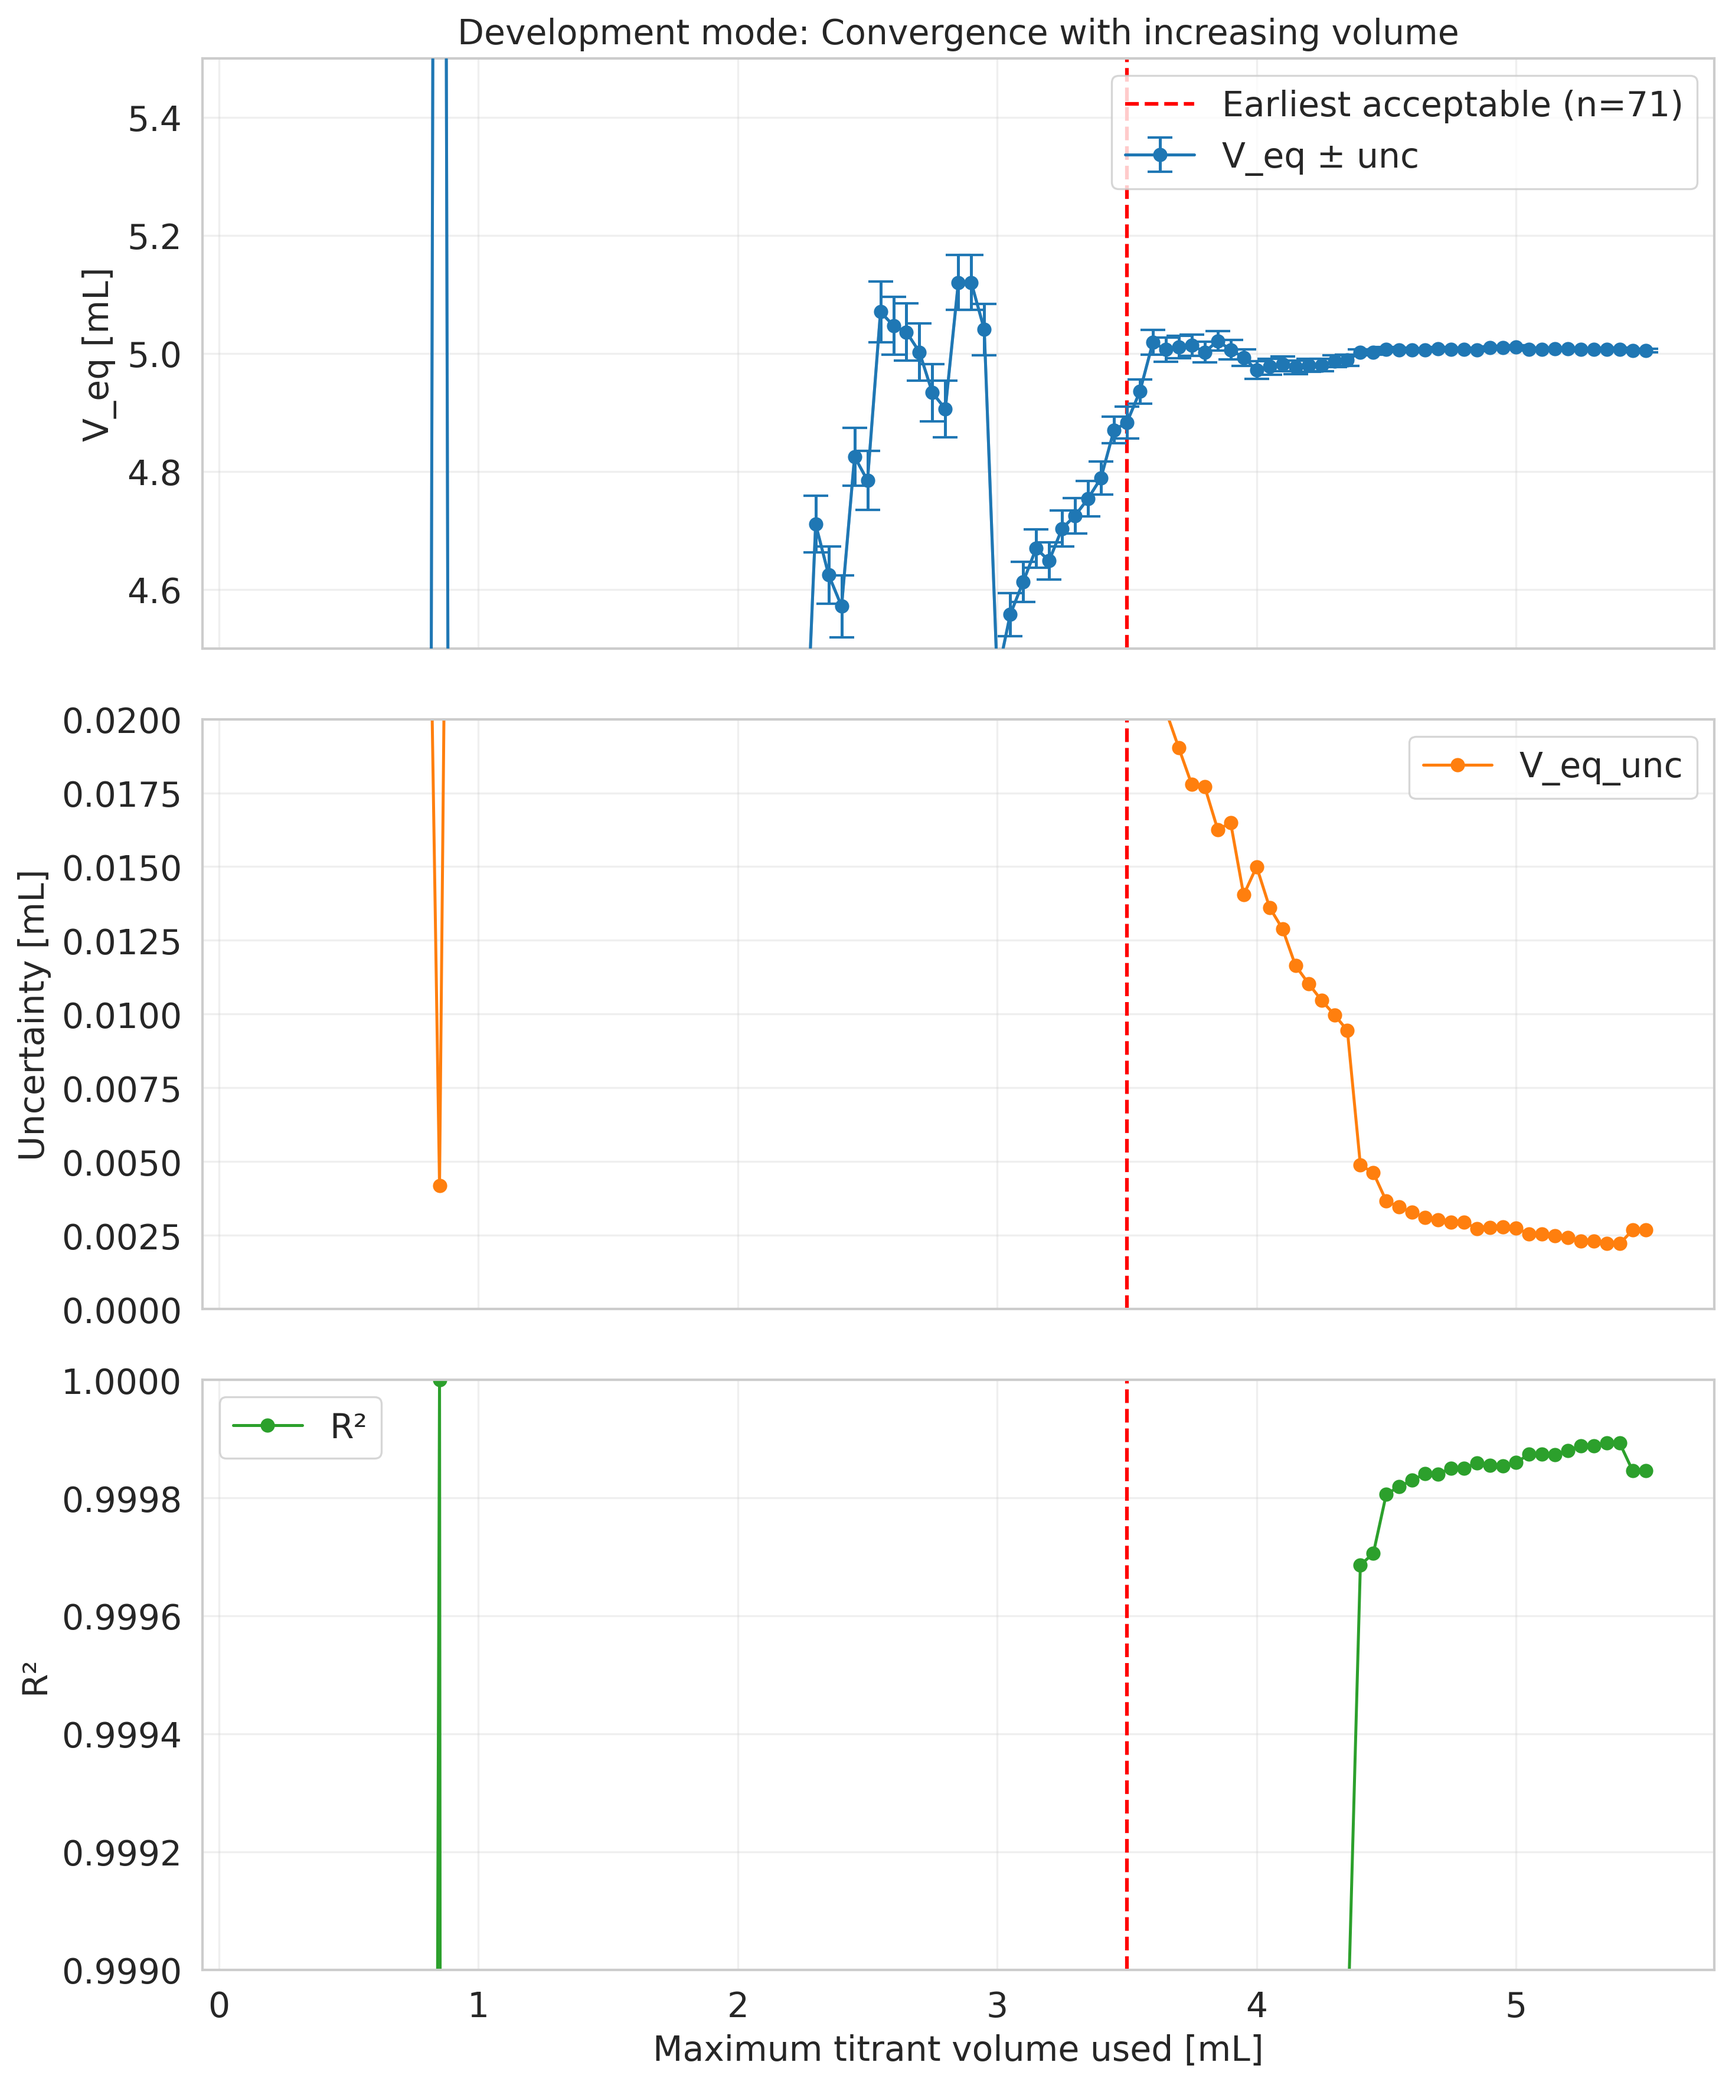
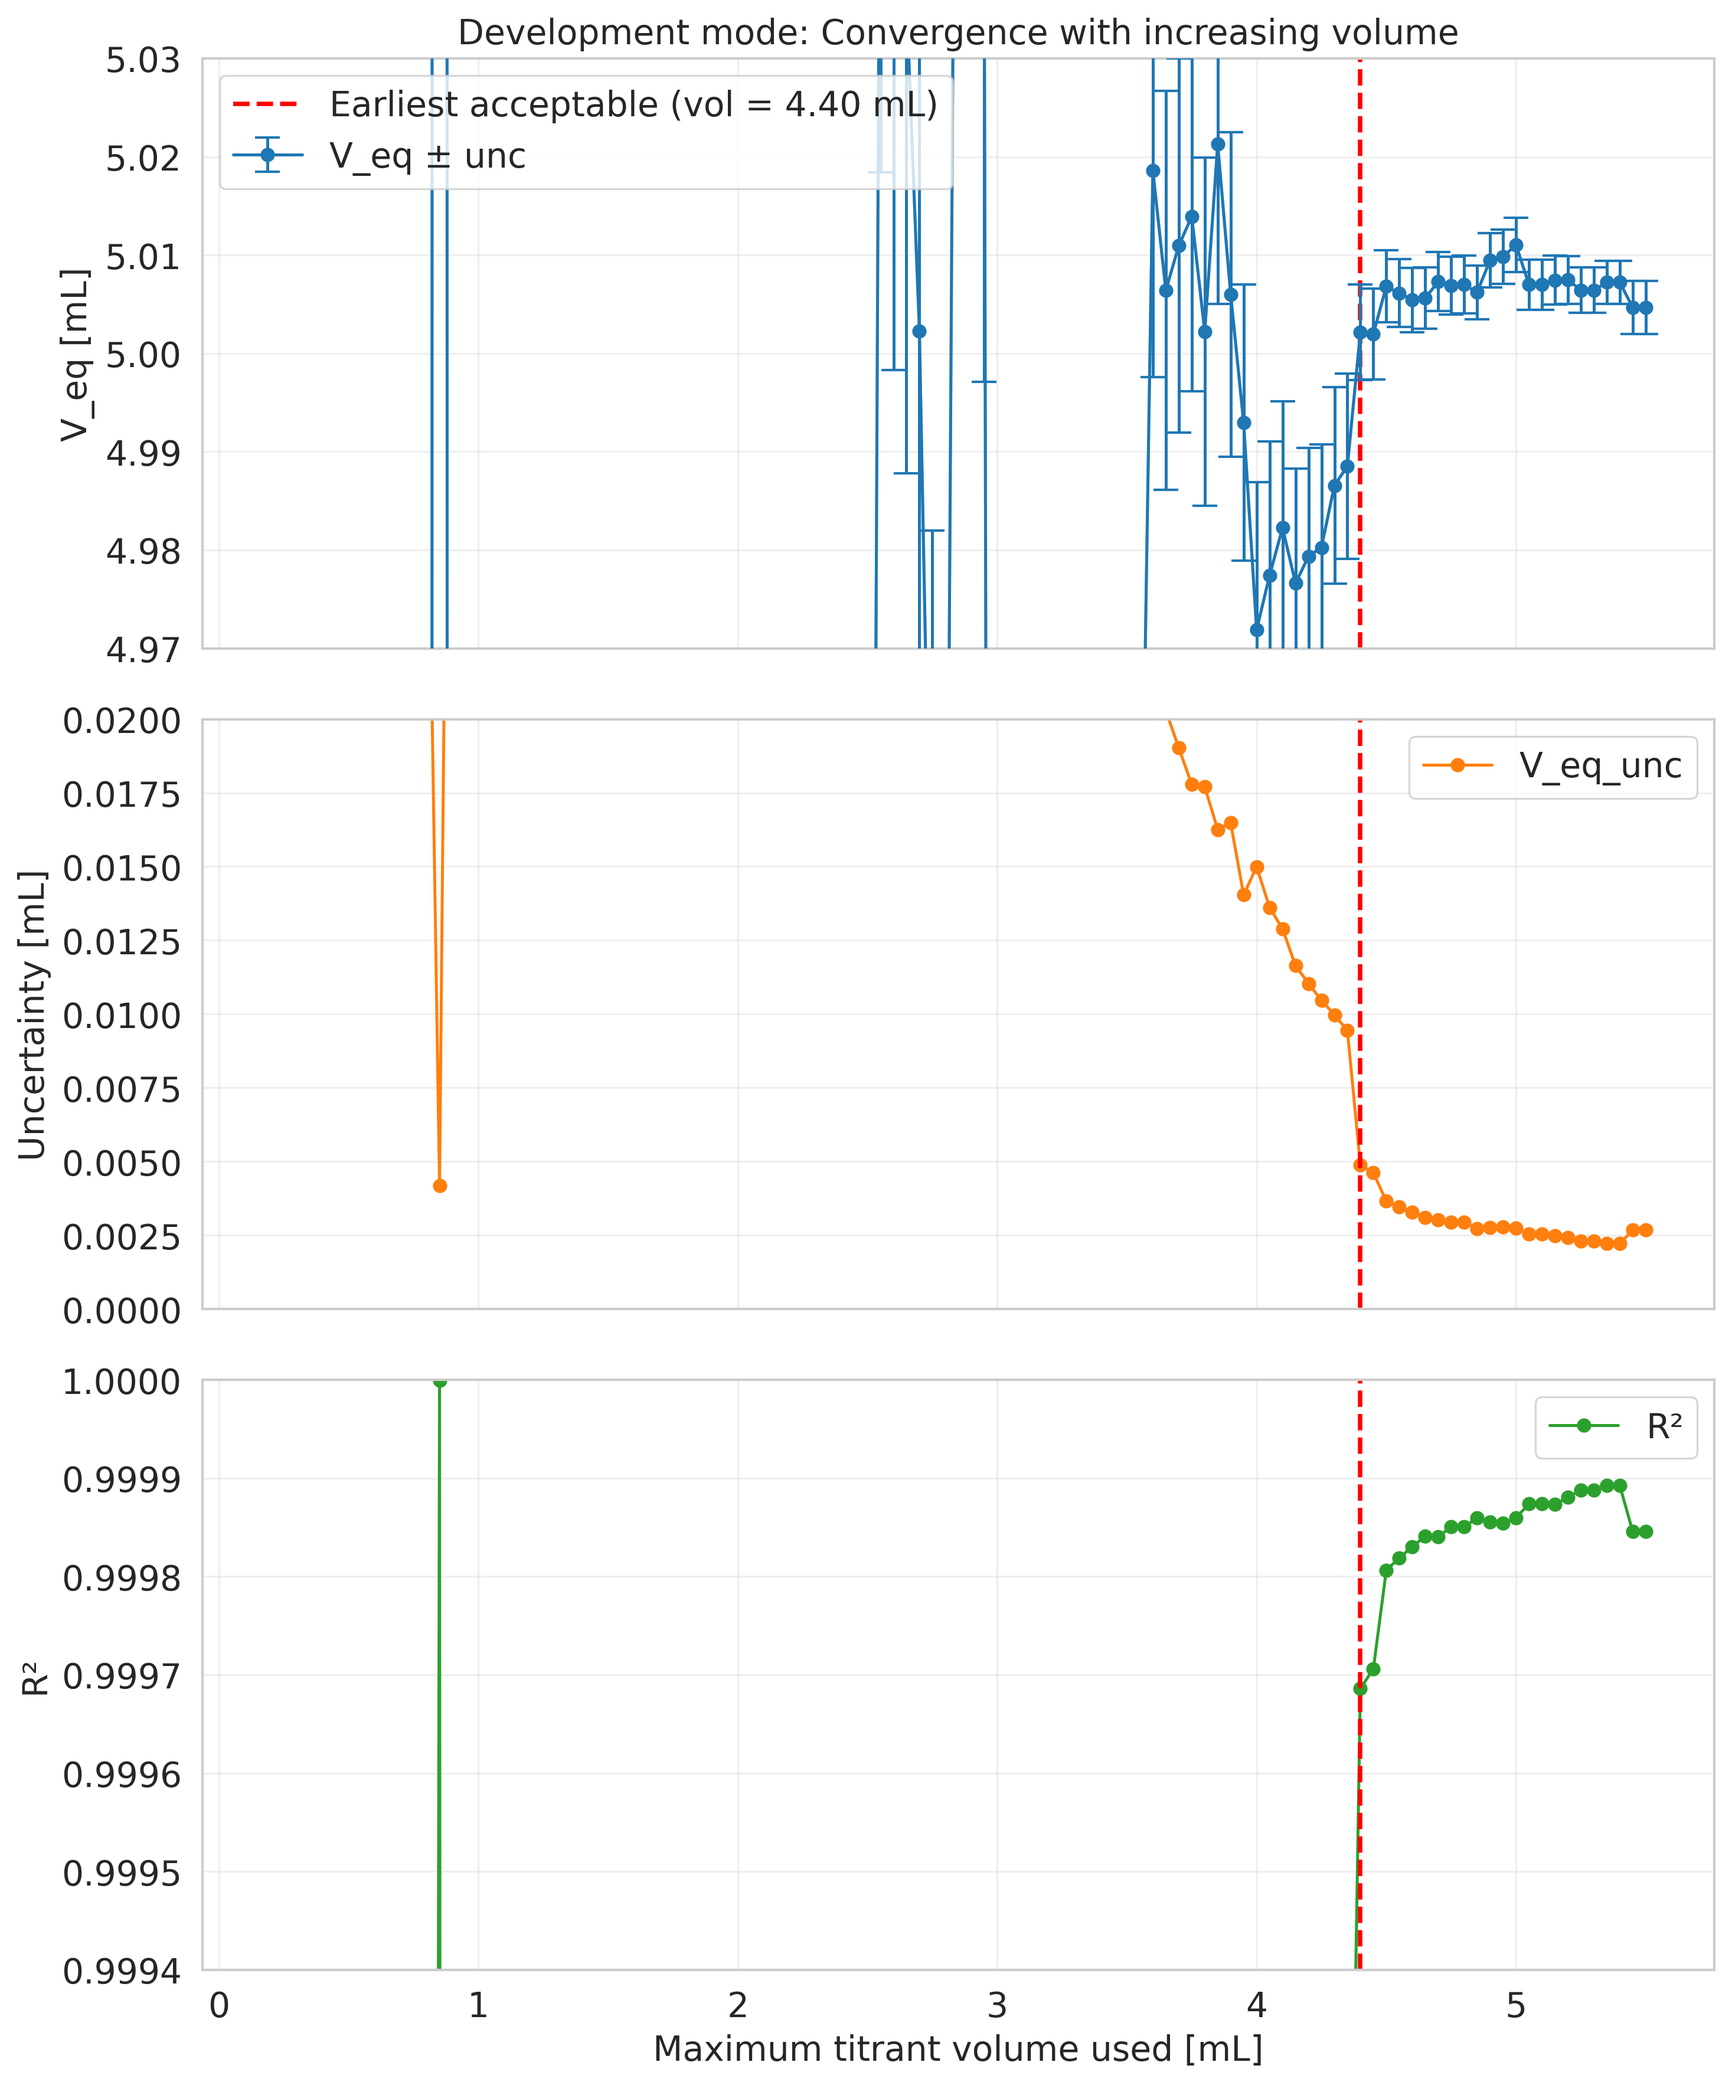
graphs_2

diff --git a/visualizer.py b/visualizer.py
@@ -437,13 +437,15 @@ def plot_development_summary(
     ax2.grid(True, alpha=0.3)
     ax2.legend()
 
-    # Bottom: R² with lower limit 0.9
+    # Bottom: R²
     ax3.plot(max_volumes[valid], R2[valid], 'o-', color='C2', label='R²')
     ax3.set_xlabel('Maximum titrant volume used [mL]')
     ax3.set_ylabel('R²')
-    ax3.set_ylim(bottom=0.9)
     ax3.grid(True, alpha=0.3)
     ax3.legend()
+
+    # Ghost point: invisible but forces scaling
+    ax3.scatter([0], [1.0], color='white', alpha=0.0, zorder=1)   # transparent ghost point
 
     # Mark earliest acceptable point with volume in mL
     if earliest_n is not None and earliest_n in collected['n_points']:
@@ -456,10 +458,9 @@ def plot_development_summary(
 
         ax1.legend()
 
-    # Consistent x-limits from full dataset
-    if full_volume is not None and len(full_volume) > 0:
-        for ax in (ax1, ax2, ax3):
-            ax.set_xlim(full_volume.min(), full_volume.max())
+    ax1.set_ylim(4.97 , 5.03 )
+    ax2.set_ylim(0.0, 0.02 )
+    ax3.set_ylim(0.9994, 1.0 )
 
     plt.tight_layout()
     filename = output_dir / 'development_convergence_volume.png'

diff --git a/modes.py b/modes.py
@@ -180,7 +180,7 @@ def _trimming_analysis(
 
                 # Trigger as soon as ANY condition fails for stability_window consecutive steps
                 if consecutive_bad >= stability_window and earliest_n is None:
-                    earliest_n = n + stability_window - 1   # last good point before the bad streak
+                    earliest_n = n + stability_window  # last good point before the bad streak
                     if verbose:
                         print(f"→ Earliest acceptable point detected at n={earliest_n} "
                               f"(V_eq ≈ {reference_veq:.3f}, bad streak of {stability_window} started)")

diff --git a/main.py b/main.py
@@ -44,7 +44,7 @@ def parse_args():
 
     # Thresholds for earliest acceptable point detection
     parser.add_argument('--r2-min', type=float, default=0.9995,
-                        help='Minimum R² for acceptable fit (default: 0.9959)')
+                        help='Minimum R² for acceptable fit (default: 0.9995)')
     parser.add_argument('--unc-max', type=float, default=0.01,
                         help='Maximum allowed uncertainty on V_eq in mL (default: 0.01)')
     parser.add_argument('--veq-tolerance', type=float, default=0.01,
